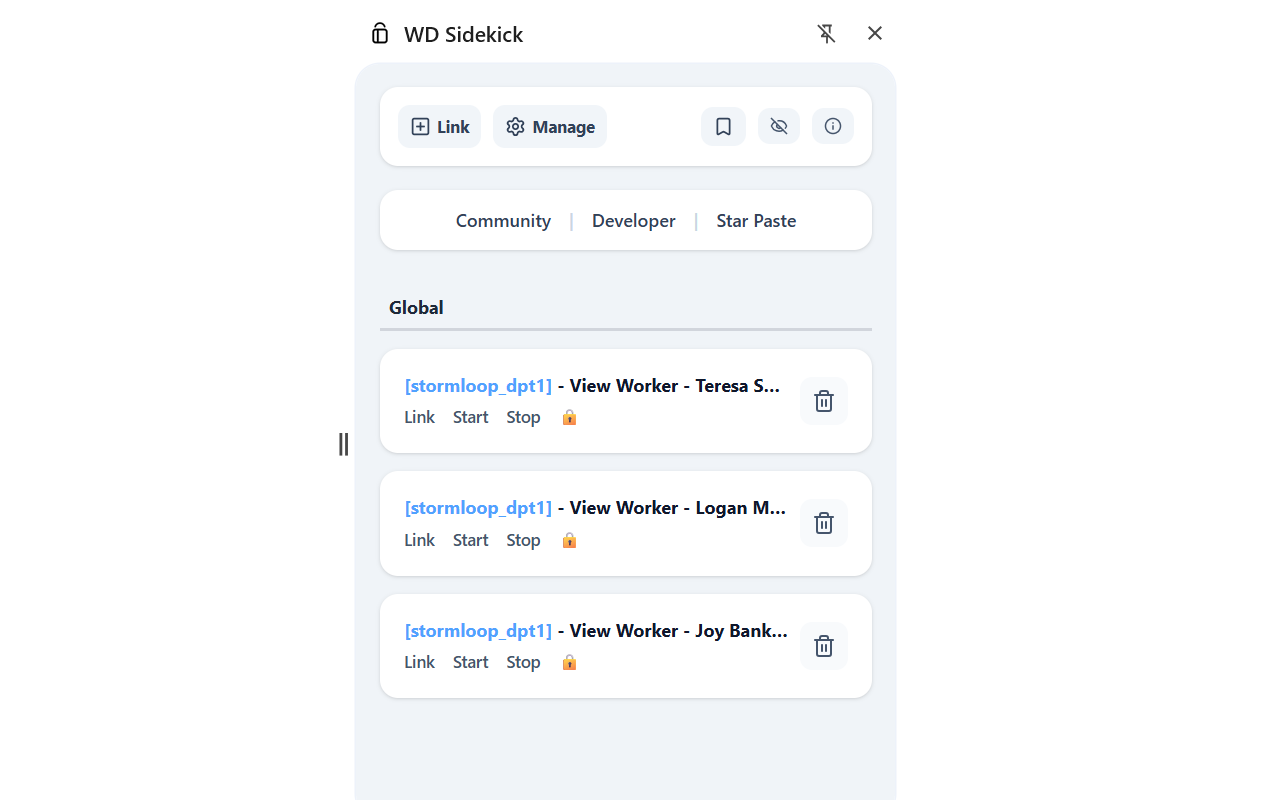
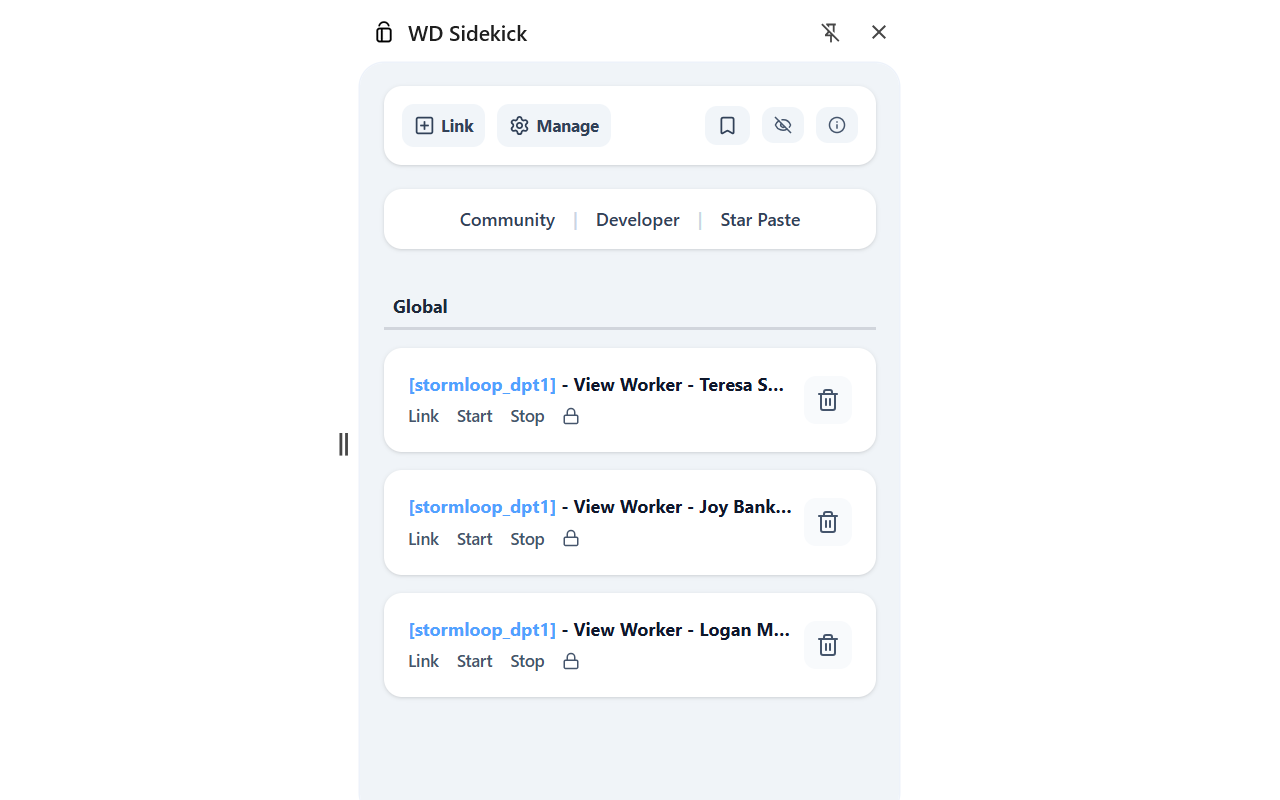
v1.5.2
- Updated for banner changes.

diff --git a/src/content/CursorController.ts b/src/content/CursorController.ts
@@ -13,11 +13,11 @@ export class CursorController {
   private currentIndex: number = 0;
 
   init() {
-    chrome.storage.sync.get(['alwaysOn'], (syncRes) => {
-      chrome.storage.local.get(['isPanelOpen'], (localRes) => {
+    chrome.storage.sync.get({ alwaysOn: false }, (syncRes) => {
+      chrome.storage.local.get({ isPanelOpen: false }, (localRes) => {
         
-        this.alwaysOn = syncRes.alwaysOn === true || syncRes.alwaysOn === 'true';
-        this.isPanelOpen = localRes.isPanelOpen === true || localRes.isPanelOpen === 'true';
+        this.alwaysOn = syncRes.alwaysOn === true;
+        this.isPanelOpen = localRes.isPanelOpen === true;
 
         if (document.readyState === 'loading') {
           document.addEventListener('DOMContentLoaded', () => this.updateListeners());
@@ -30,13 +30,13 @@ export class CursorController {
     chrome.storage.onChanged.addListener((changes, area) => {
       // If the USER changes a setting (on any device, synced remotely)
       if (area === 'sync' && changes.alwaysOn) {
-        this.alwaysOn = changes.alwaysOn.newValue === true || changes.alwaysOn.newValue === 'true';
+        this.alwaysOn = changes.alwaysOn.newValue === true;
         this.updateListeners();
       }
 
       // If the PANEL opens/closes (on THIS local device only)
       if (area === 'local' && changes.isPanelOpen) {
-        this.isPanelOpen = changes.isPanelOpen.newValue === true || changes.isPanelOpen.newValue === 'true';
+        this.isPanelOpen = changes.isPanelOpen.newValue === true;
         this.updateListeners();
       }
     });
@@ -122,6 +122,59 @@ export class CursorController {
     }
   };
 
+  private addStopProxy(stopProxyUrl: string) {
+    // Prevent duplicate injections
+    if (document.getElementById('stopProxy')) return;
+
+    let targetBanner: HTMLElement | null = null;
+
+    // 1. Try finding the NEW Canvas Kit banner layout
+    const banners = document.querySelectorAll('[data-automation-id="banner"]');
+    for (const banner of Array.from(banners)) {
+        if (banner.textContent && banner.textContent.includes('On behalf of:')) {
+            targetBanner = banner as HTMLElement;
+            break;
+        }
+    }
+
+    // 2. Fall back to the EXISTING (older) Workday layout
+    if (!targetBanner) {
+        // REPLACE '.wd-EnvironmentBanner' with whatever selector wd-sidekick currently uses if different
+        const oldBannerElements = document.querySelectorAll('.wd-EnvironmentBanner'); 
+        for (const banner of Array.from(oldBannerElements)) {
+            if (banner.textContent && banner.textContent.includes('On behalf of:')) {
+                targetBanner = banner as HTMLElement;
+                break;
+            }
+        }
+    }
+
+    // 3. Inject the link into the banner with the exact original DOM structure
+    if (targetBanner) {
+        // The new Canvas Kit banners use flexbox. Adding relative positioning 
+        // ensures the 'position: absolute' link container stays inside the banner.
+        if (window.getComputedStyle(targetBanner).position === 'static') {
+            targetBanner.style.position = 'relative';
+        }
+
+        let divOuter = document.createElement("div");
+        divOuter.setAttribute("style", "width:100%;");
+        targetBanner.appendChild(divOuter);
+        
+        let divInner = document.createElement("div");
+        divInner.setAttribute("style", "position:absolute;right:100px;top:5px;");
+        targetBanner.appendChild(divInner);
+        
+        let stopProxy = document.createElement("a");
+        stopProxy.setAttribute("href", stopProxyUrl);
+        stopProxy.setAttribute("id", "stopProxy");
+        stopProxy.setAttribute("style", "margin-left:26px;color:white;");
+        stopProxy.setAttribute("title", "Stop Proxy");
+        stopProxy.innerHTML = "Stop Proxy";
+        divInner.appendChild(stopProxy);
+    }
+  }
+
   handleTopNav = () => {
     try {
       let url = window.location.href;
@@ -137,9 +190,11 @@ export class CursorController {
       let wdLink: WDLink = { id: 0, title: '', url: url, tenant: '', proxy: '', stopProxy: '', activateSecurity: '', login: '' };
       const updatedLink = wdLinkUpdate(wdLink);
 
-      if (document.querySelector("[name='username']")){
-        let elem = document.querySelector("[name='username']");
-        const input = elem.tagName === 'INPUT' ? (elem as HTMLInputElement) : elem.closest("input") as HTMLInputElement;  
+      if (document.querySelector("[data-automation-id='userName']")){
+        let elem = document.querySelector("[data-automation-id='userName']");
+        if (!elem) return;
+        const input = elem.tagName === 'INPUT' ? (elem as HTMLInputElement) : elem.querySelector("input") as HTMLInputElement;  
+        if (!input) return;
         if (input.value.length === 0) {   
           const uriArr = url.split('/'); 
           if (uriArr.length > 5) {
@@ -148,26 +203,8 @@ export class CursorController {
         }
       }
 
-      if (document.querySelector("[data-automation-id='banner']:nth-child(2)") && !document.querySelector("#stopProxy")) {
-        let onBehalfOf = document.querySelector("[data-automation-id='banner']:nth-child(2)");
-        if (onBehalfOf) {
-          let divOuter = document.createElement("div");
-          divOuter.setAttribute("style", "width:100%;");
-          onBehalfOf.appendChild(divOuter);
-          
-          let divInner = document.createElement("div");
-          divInner.setAttribute("style", "position:absolute;right:100px;top:5px;");
-          onBehalfOf.appendChild(divInner);
-          
-          let stopProxy = document.createElement("a");
-          stopProxy.setAttribute("href", updatedLink.stopProxy);
-          stopProxy.setAttribute("id", "stopProxy");
-          stopProxy.setAttribute("style", "margin-left:26px;color:white;");
-          stopProxy.setAttribute("title", "Stop Proxy");
-          stopProxy.innerHTML = "Stop Proxy";
-          divInner.appendChild(stopProxy);
-        }
-      }
+      // Execute the resilient Stop Proxy injection
+      this.addStopProxy(updatedLink.stopProxy);
 
       if (!document.querySelector("#startProxy") && document.querySelector("[data-automation-id='banner']")) {
         let banner = document.querySelector("[data-automation-id='banner']:nth-child(1)");

diff --git a/src/util/wdLinkUtil.ts b/src/util/wdLinkUtil.ts
@@ -1,25 +1,32 @@
-import { WDLink } from '@/types/WDLink';
+import type WDLink from '@/types/WDLink';
 
 /**
  * Check if a Workday URL is a production environment
  * https://doc.workday.com/admin-guide/en-us/authentication-and-security/authentication/authentication-references/ele1400114318375.html
  */
 export function wdProd(url: string): boolean {
- 
-  let prod = false;
   try {
-  const urlLower = url.toLowerCase();
-  if (urlLower.indexOf('myworkday.com') > 0 || urlLower.indexOf('myworkdaygov.com') > 0) {
-    const subs = urlLower.split('.');
-    if (subs[0].indexOf('impl') < 0 && subs[0].indexOf('dev') < 0) {
-      prod = true;
-    }
-  }
-  } catch (e) {
-    console.error("Production check failed", e);
-  }
+    const urlObj = new URL(url);
+    const hostname = urlObj.hostname.toLowerCase();
+    const pathname = urlObj.pathname.toLowerCase();
+    
+    // Common identifiers in Workday non-production hostnames
+    const nonProdHosts = ['impl', 'dev', 'sandbox', 'sbx', 'preview'];
+    
+    // Identifiers sometimes appended to the tenant name in the URL path (e.g., /companyname_pt1/)
+    const nonProdPaths = ['_pt1', '_preview', '_dpt1'];
+    
+    const isNonProdHost = nonProdHosts.some(keyword => hostname.includes(keyword));
+    const isNonProdPath = nonProdPaths.some(keyword => pathname.includes(keyword));
 
-  return prod;
+    return !(isNonProdHost || isNonProdPath);
+    
+  } catch (e) {
+    console.error("WD Sidekick production check failed:", e);
+    // Fail-safe: default to false (non-prod) if parsing fails so you don't 
+    // accidentally trigger prod-only behavior on a malformed URL.
+    return false; 
+  }
 }
 
 /**

diff --git a/src/background.ts b/src/background.ts
@@ -1,5 +1,5 @@
 // src/background.ts
-import { WDLink } from '@/types/WDLink';
+import type WDLink from '@/types/WDLink';
 import { wdLinkUpdate } from '@/util/wdLinkUtil';
 
 // Tell Chrome to open the Side Panel when the extension icon is clicked
@@ -10,9 +10,7 @@ chrome.sidePanel
 const ROOT_FOLDER_NAME = 'WD Sidekick';
 let sidePanelPort: chrome.runtime.Port | null = null;
 
-chrome.runtime.onStartup.addListener(() => {
-    chrome.storage.local.set({ isPanelOpen: false });
-});
+chrome.storage.local.set({ isPanelOpen: false });
 
 // --- BOOKMARK HELPER FUNCTIONS ---
 

diff --git a/src/App.svelte b/src/App.svelte
@@ -39,7 +39,7 @@
   onMount(() => {
     // 1. Load "Always On" state, folders, and the last selected folder
     chrome.storage.sync.get(['alwaysOn', 'folders', 'lastSelectedFolder'], (data) => {
-      isInjectionEnabled = data.alwaysOn || false;
+      isInjectionEnabled = data.alwaysOn === true;
       
       if (data.folders && data.folders.length > 0) {
         folders = data.folders;
